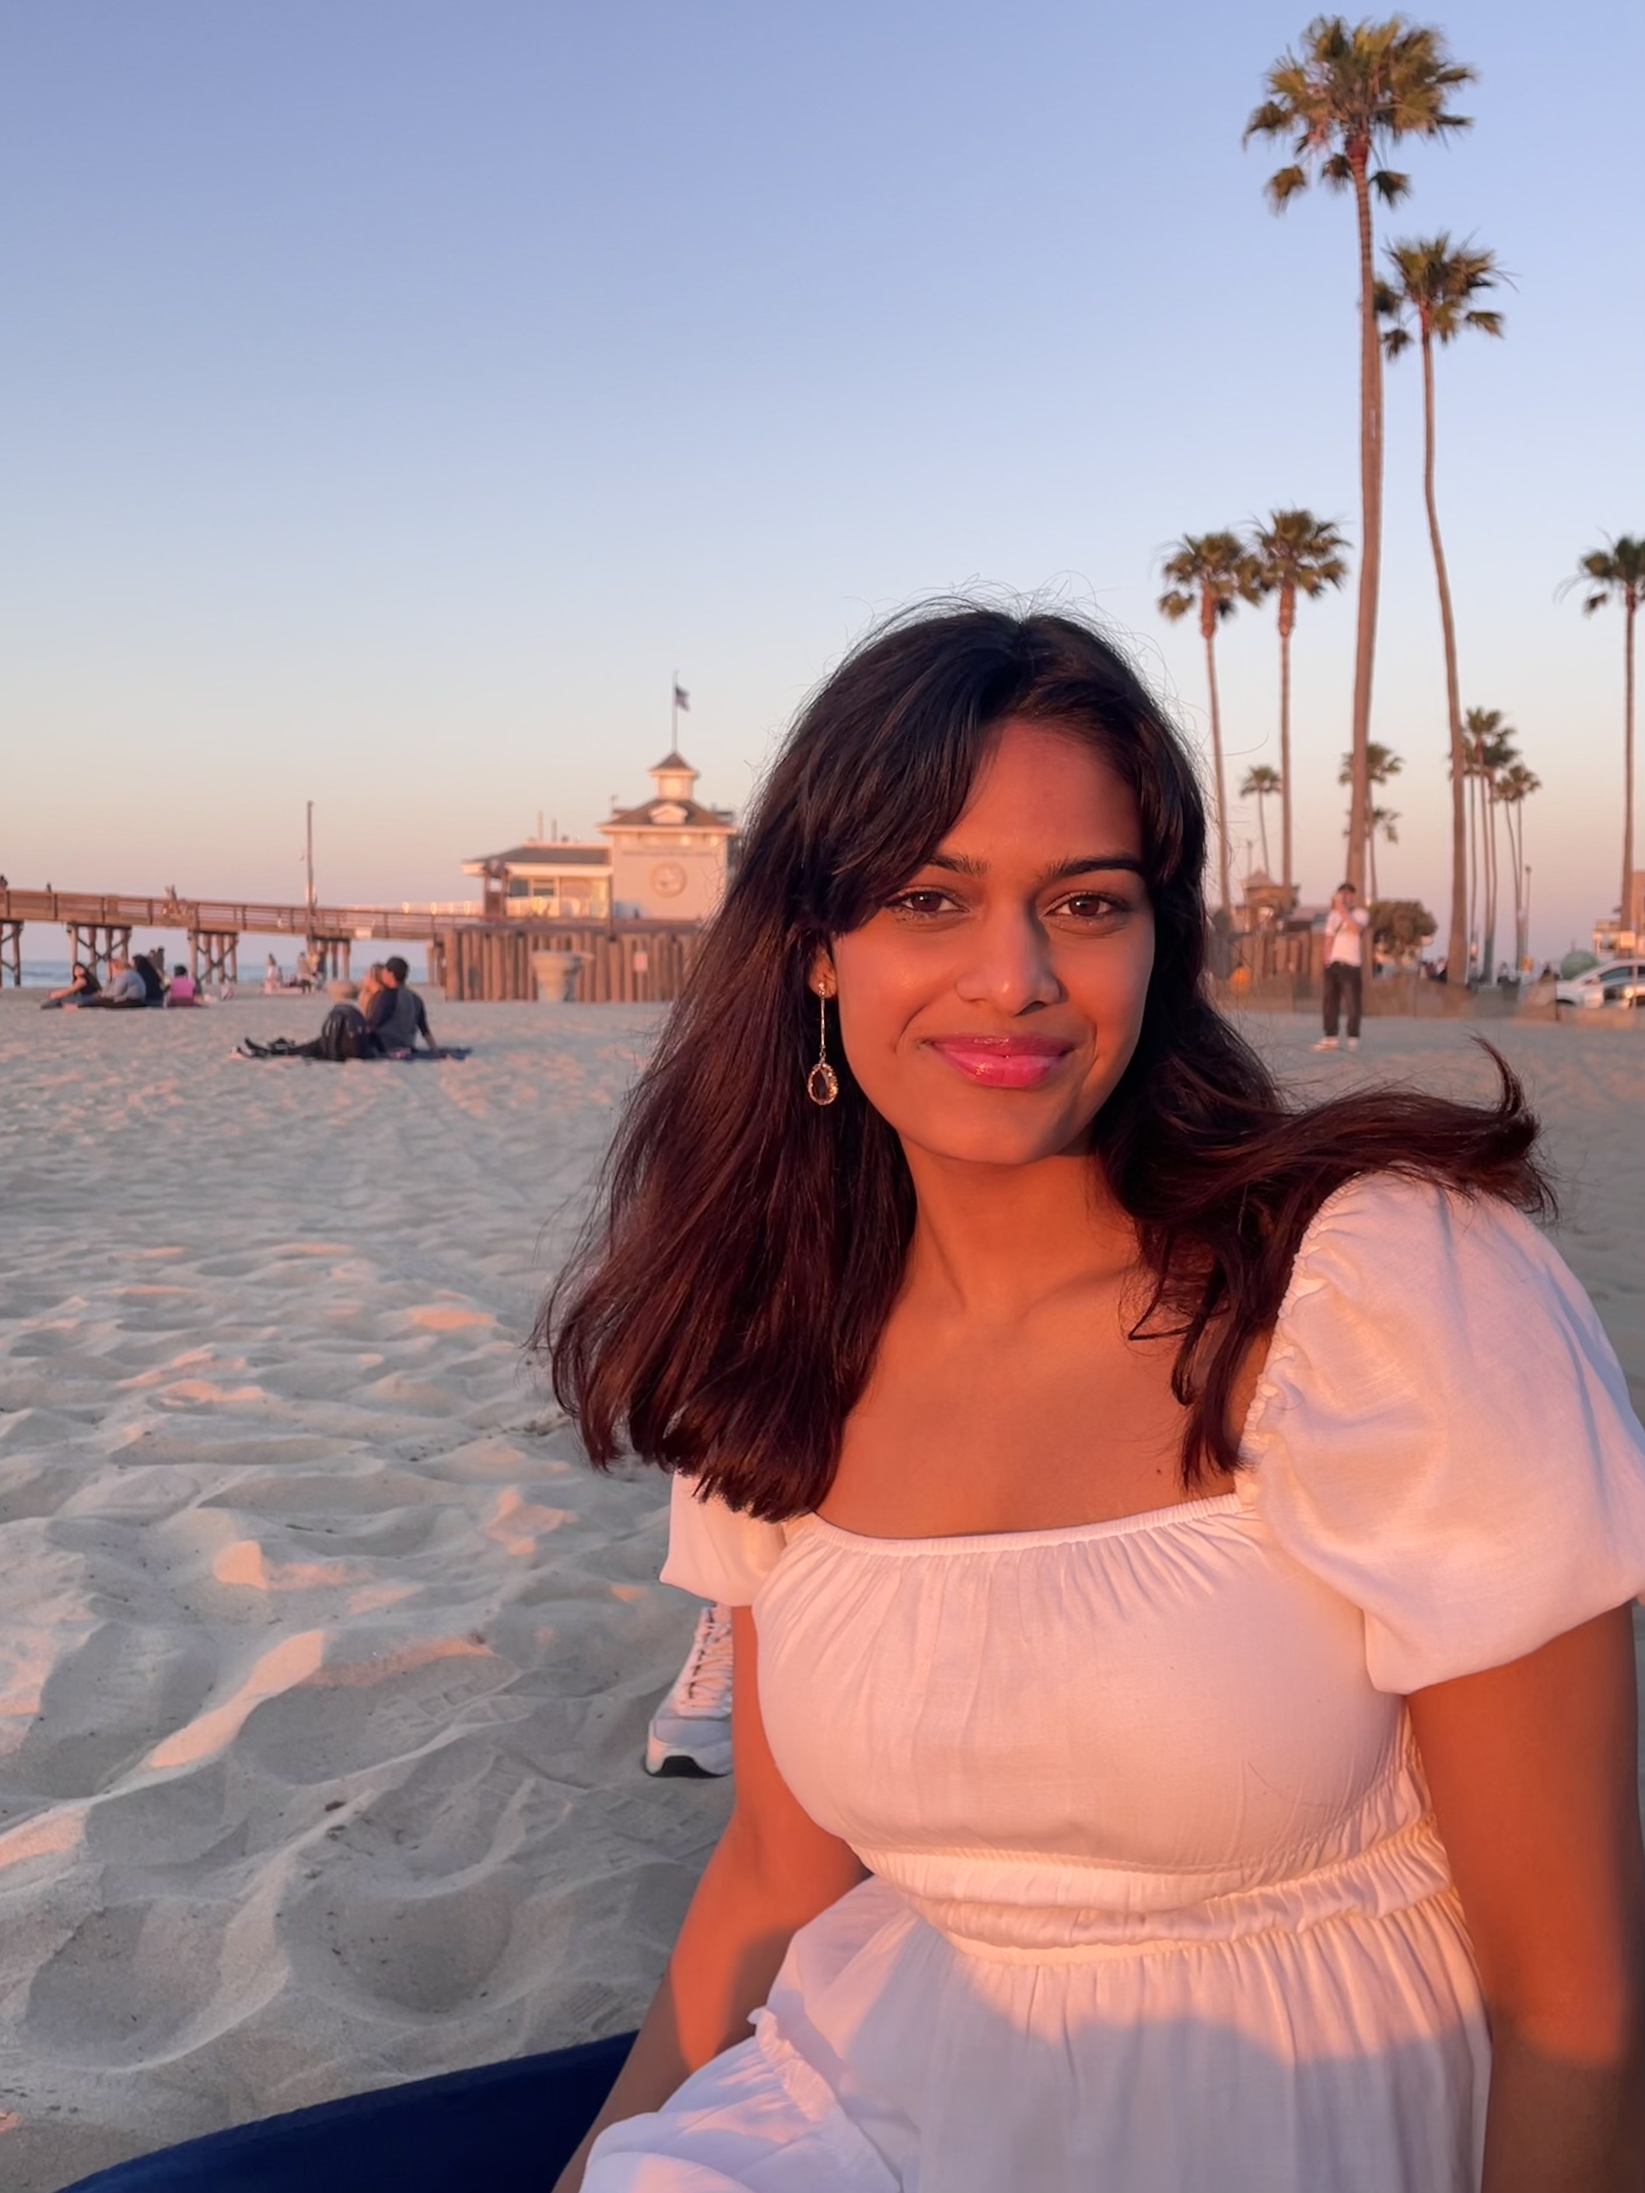
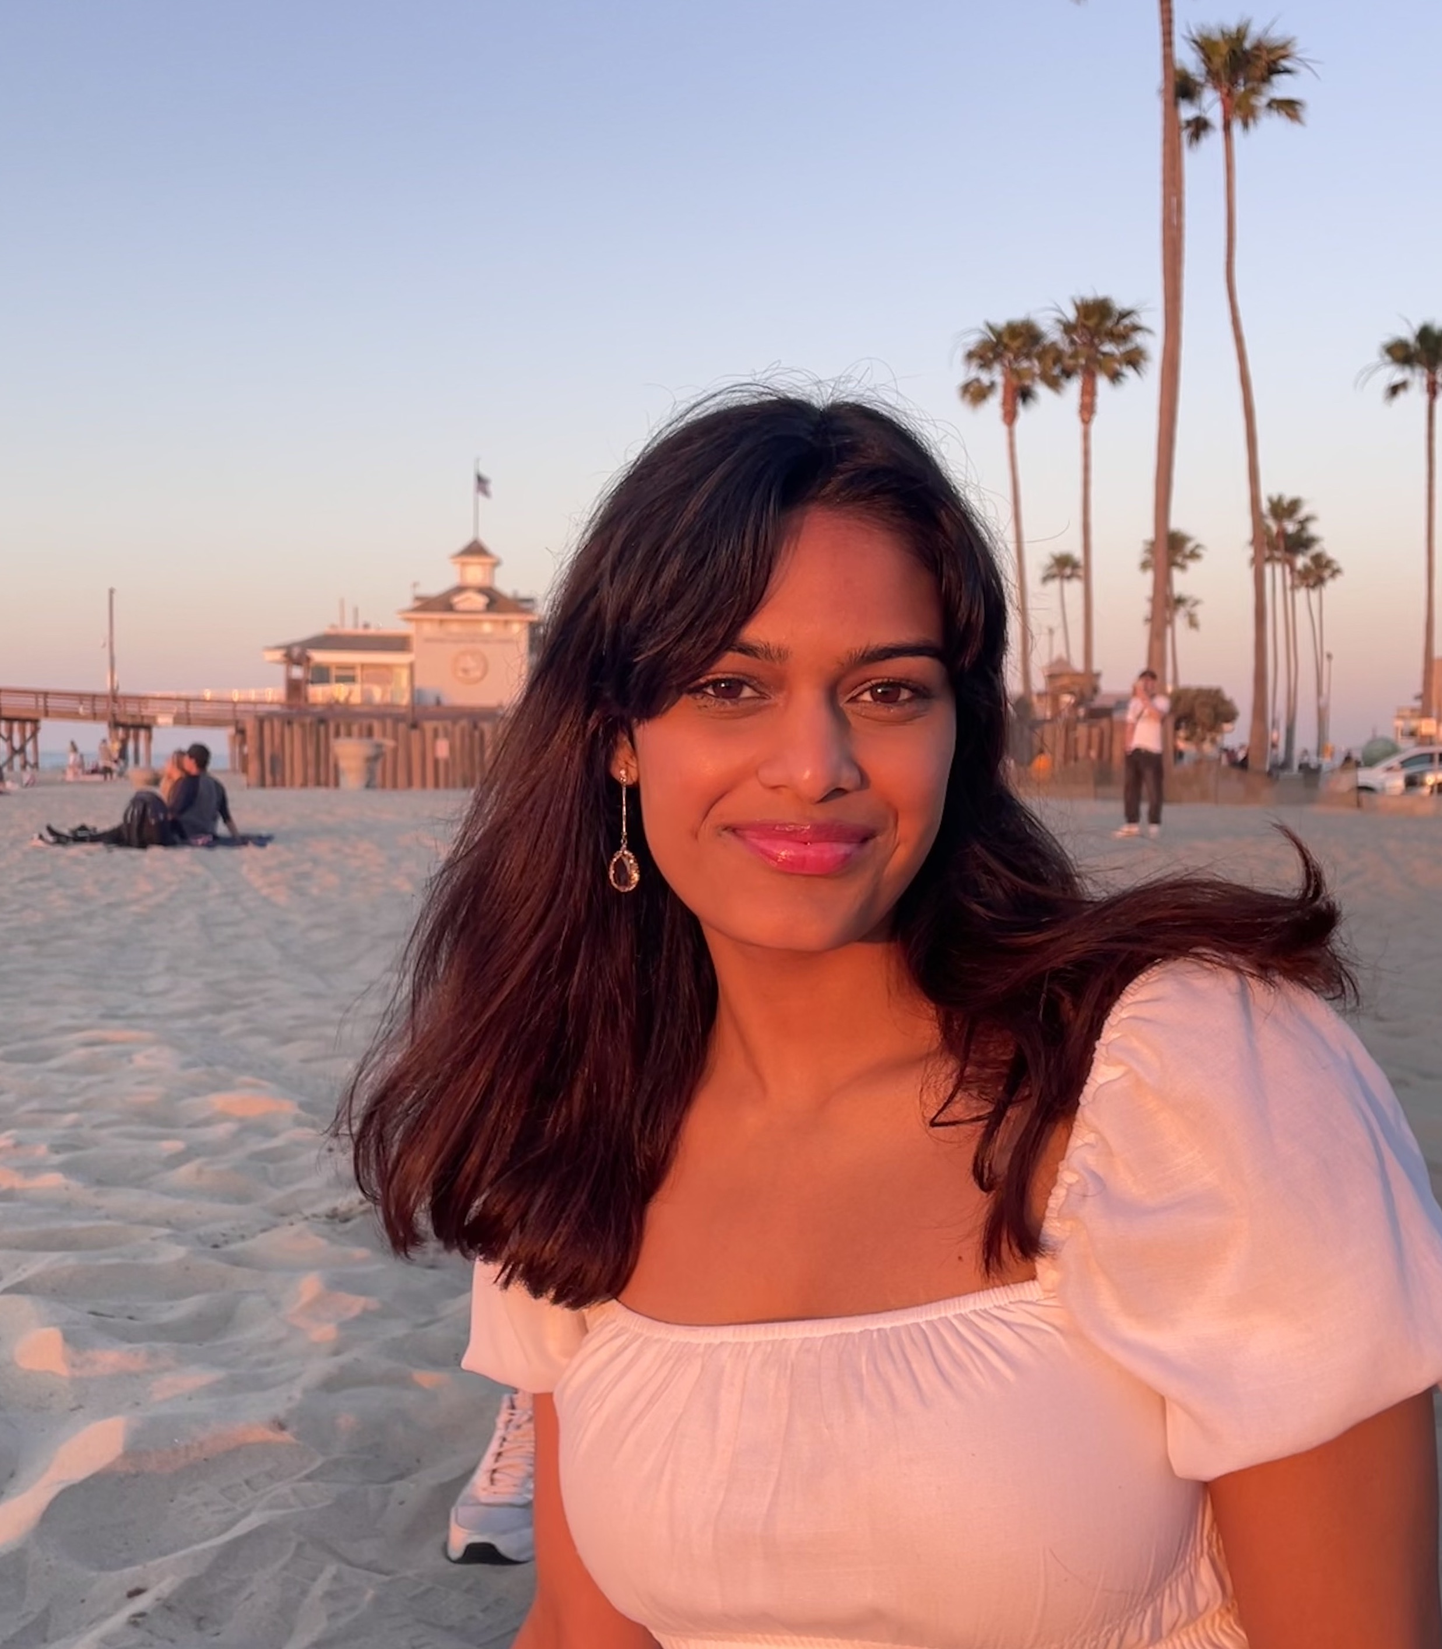
responsive landing

diff --git a/updatedSite/styles.css b/updatedSite/styles.css
@@ -15,7 +15,6 @@
     display: flex;
     align-items: center;
     width: 70%;
-    height: 400px;
     background-image: url('./imgs/gradient.png');
     background-size: cover;
     background-position: center;
@@ -25,26 +24,30 @@
 
 .intro-text {
     flex: 1;
-    margin-left: 60px;
+    margin: 60px;
     text-align: left;
 }
 
 .intro {
-    font-size: 2rem;
+    font-size: 4vw;
     margin-bottom: 20px;
+    padding-bottom: 0;
 }
 
 .typer {
-    font-size: 1.5rem;
+    font-size: 2rem;
+}
+
+.star-pic{
+    width: 50px;
 }
 
 .profile-pic {
-    flex: 0 0 150px;
-    width: 150px;
-    height: 150px;
+    width: 30%;
+    height: auto;
     border-radius: 50%;
     object-fit: cover;
-    margin-left: 20px;
+    margin-left: 0px;
 }
 
 /* Responsive Design */
@@ -56,7 +59,8 @@
     }
 
     .profile-pic {
-        margin-right: 20%;
+        margin-top: 0;
+        width: 70%;
     }
 
     .content-wrapper {
@@ -64,15 +68,29 @@
     }
 
     .intro {
-        font-size: 1.5rem;
+        font-size: 2.5rem;
+        margin-top: 0;
     }
 
     .typer {
-        font-size: 1.2rem;
+        font-size: 2rem;
     }
 
     .gradient1 {
         width: 100%;
         height: auto;
     }
+}
+
+.about-section{
+    width:70%;
+}
+.about-content{
+    display: flex;
+    align-items: center;
+    width:70%;
+}
+
+.about-pic{
+    width: 200px;
 }

diff --git a/updatedSite/index.html b/updatedSite/index.html
@@ -8,9 +8,22 @@
 </head>
 <body>
     <div class="landing-page">
-        <img class="gradient1" src="./imgs/gradient.png">
+        <div class="content-wrapper">
+            
+            <div class="intro-text">
+                <h1 class="intro">hey, i'm <br>rishita dhalbisoi!</h1>
+                <div class="typer">
+                    <span class="text first-text">i am a <br></span>
+                    <span class="text sec-text"> software developer</span>
+                </div>
+            </div>
+            <img class="profile-pic" src="./imgs/pic.jpeg">
+            <img class="star-pic" src="./imgs/star.png">
+        </div>
+
+        
     </div>
-    <p>hi</p>
+    
 </body>
 </html>
 
